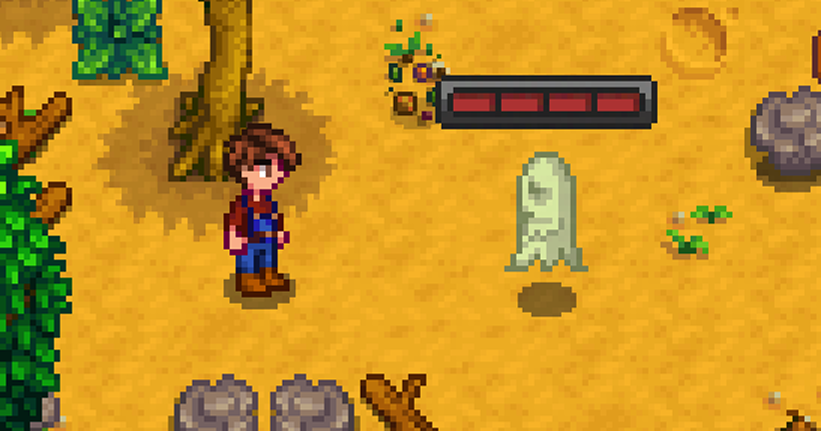
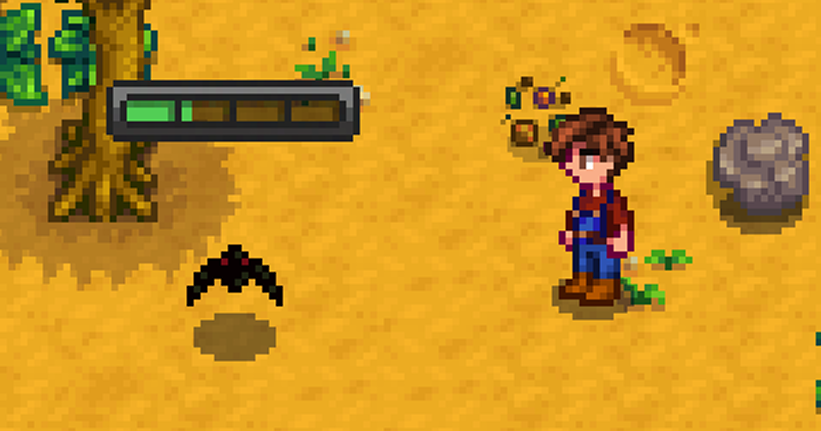
update the hp bar color

diff --git a/src/Utils/TextureManager.cs b/src/Utils/TextureManager.cs
@@ -38,7 +38,7 @@ namespace HPBars.src.Utils
 
         public static Color GetBarColor()
         {
-            return new Color(172, 50, 50, 255);
+            return new Color(82, 206, 85, 255);
         }
 
         public static Color GetBorderColor()
